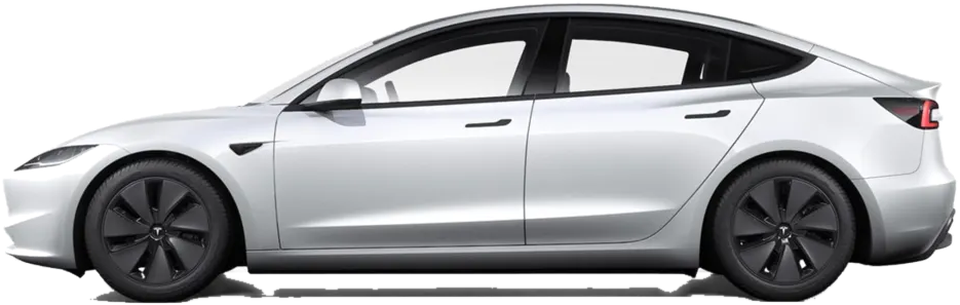
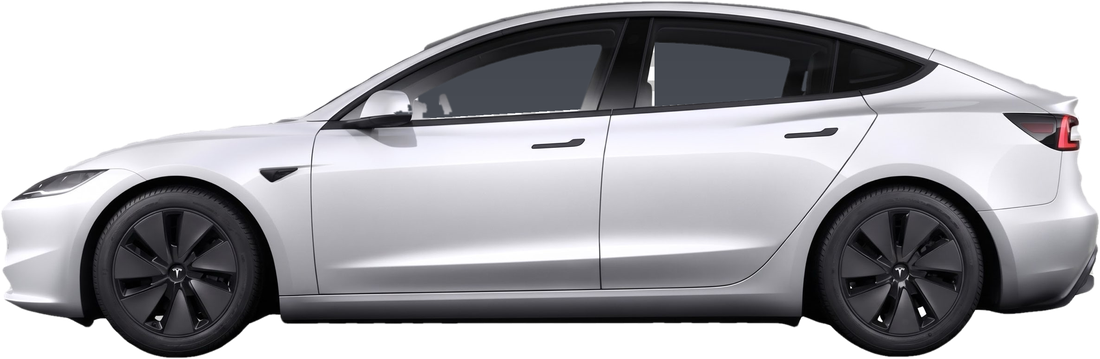
Impact: new Model 3 art, Vehicle on Solar 3-column stats, tighter CO2 card wording, forecast legend; build 93
Claude-Session: https://claude.ai/code/session_01CD5CaXa92AtdS8tThhJdH8

diff --git a/Sources/App/ImpactView.swift b/Sources/App/ImpactView.swift
@@ -304,20 +304,36 @@ struct ImpactView: View {
             }
             .padding(.top, 14)
             divider().padding(.top, 16)
-            HStack(alignment: .top) {
-                legendDot(Self.solarColor, kwh(t.carSolar), "Solar").frame(maxWidth: .infinity, alignment: .leading)
-                legendDot(Color(white: 0.4), kwh(max(t.car - t.carSolar, 0)), "Grid").frame(maxWidth: .infinity, alignment: .leading)
+            let km: Double? = {
+                guard let perKm = model.kWhPerKm, perKm > 0, t.carSolar > 0 else { return nil }
+                return t.carSolar * ImpactStat.chargeEfficiency / perKm
+            }()
+            HStack(alignment: .top, spacing: 0) {
+                statColumn(dot: Self.solarColor, kwh(t.carSolar), "Solar")
+                statDivider()
+                statColumn(dot: Color(white: 0.4), kwh(max(t.car - t.carSolar, 0)), "Grid")
+                statDivider()
+                statColumn(dot: nil, km.map { "\(Num.whole($0)) km" } ?? "—", "Driven on sunshine", valueColor: Self.solarColor)
             }
             .padding(.top, 14)
-            if let perKm = model.kWhPerKm, t.carSolar > 0 {
-                let km = t.carSolar * ImpactStat.chargeEfficiency / perKm
-                HStack(alignment: .firstTextBaseline, spacing: 8) {
-                    Text("\(Num.whole(km)) km").font(.app(size: 14, weight: .semibold)).foregroundStyle(Self.solarColor)
-                    Text("driven on sunshine").font(.app(size: 12)).foregroundStyle(TeslaDark.labelGrey)
-                }
-                .padding(.top, 18)
-            }
         }
+    }
+
+    private func statColumn(dot: Color?, _ value: String, _ name: String, valueColor: Color = .white) -> some View {
+        VStack(spacing: 3) {
+            HStack(spacing: 6) {
+                if let dot { Circle().fill(dot).frame(width: 7, height: 7) }
+                Text(value).font(.app(size: 13, weight: .semibold)).foregroundStyle(valueColor)
+                    .lineLimit(1).minimumScaleFactor(0.7)
+            }
+            Text(name).font(.app(size: 10)).foregroundStyle(TeslaDark.rowLabel)
+                .lineLimit(1).minimumScaleFactor(0.8)
+        }
+        .frame(maxWidth: .infinity)
+    }
+
+    private func statDivider() -> some View {
+        Rectangle().fill(Color.white.opacity(0.09)).frame(width: 0.5, height: 30)
     }
 
     // CO₂ Avoided: tonnes, and the trees that would take it up.
@@ -330,29 +346,29 @@ struct ImpactView: View {
         return card("CO₂ Avoided", info: { withAnimation { showCarbonInfo.toggle() } }) {
             bigNumber(kg >= 1000 ? String(format: "%.2f", kg / 1000) : String(format: "%.0f", kg),
                       kg >= 1000 ? "tonnes" : "kg", Self.green)
-                .padding(.top, 8)
+                .padding(.top, 4)
             LazyVGrid(columns: Array(repeating: GridItem(.flexible(), spacing: 4), count: 13), spacing: 10) {
                 ForEach(0..<icons, id: \.self) { _ in
                     Image(systemName: "tree.fill").font(.system(size: 15)).foregroundStyle(Self.green)
                         .opacity(trees < 1 ? 0.4 : 1)
                 }
             }
-            .padding(.top, 16)
+            .padding(.top, 8)
             HStack(alignment: .firstTextBaseline, spacing: 6) {
                 Text(trees < 10 ? String(format: "%.1f trees", trees) : "\(n) trees").font(.app(size: 12, weight: .semibold))
-                Text(per > 1 ? "grown 10 years take this up · 1 icon = \(per)" : "grown 10 years take this up")
+                Text(per > 1 ? "absorb this in 10 years · 1 icon = \(per)" : "absorb this in 10 years")
                     .font(.app(size: 11)).foregroundStyle(TeslaDark.rowLabel)
             }
-            .padding(.top, 14)
+            .padding(.top, 8)
             if showCarbonInfo {
                 Text("Solar generated × the Peninsular Malaysia grid emission factor (Energy Commission 2024). One tree grown for 10 years takes up about 60 kg CO₂ (US EPA).")
                     .font(.app(size: 11)).foregroundStyle(TeslaDark.dim)
                     .padding(.top, 12)
             }
-            divider().padding(.top, 14)
+            divider().padding(.top, 12)
             Text("\(kwh(t.solar)) solar × \(String(format: "%.3f", ImpactStat.gridKgPerKWh)) kg/kWh")
                 .font(.app(size: 10)).foregroundStyle(TeslaDark.labelGrey)
-                .padding(.top, 12)
+                .padding(.top, 10)
         }
     }
 
@@ -366,6 +382,19 @@ struct ImpactView: View {
                               peakToday: model.peakToday, peakTomorrow: model.peakTomorrow)
                 .frame(height: 150)
                 .padding(.top, 14)
+            HStack(spacing: 16) {
+                HStack(spacing: 6) {
+                    Capsule().fill(Self.solarColor).frame(width: 14, height: 2)
+                    Text("Today, hourly Solcast")
+                }
+                HStack(spacing: 6) {
+                    HStack(spacing: 2) { ForEach(0..<3, id: \.self) { _ in Capsule().fill(Color(white: 0.45)).frame(width: 3, height: 1.5) } }
+                    Text("Tomorrow forecast")
+                }
+            }
+            .font(.app(size: 9)).foregroundStyle(TeslaDark.rowLabel)
+            .frame(maxWidth: .infinity)
+            .padding(.top, 10)
             divider().padding(.top, 14)
             HStack {
                 Text("Tomorrow").font(.app(size: 12)).foregroundStyle(TeslaDark.rowLabel)
@@ -395,7 +424,7 @@ struct SolarCarView: View {
                     }
             }
         }
-        .aspectRatio(960 / 305, contentMode: .fit)
+        .aspectRatio(1100 / 359, contentMode: .fit)
     }
 }
 
